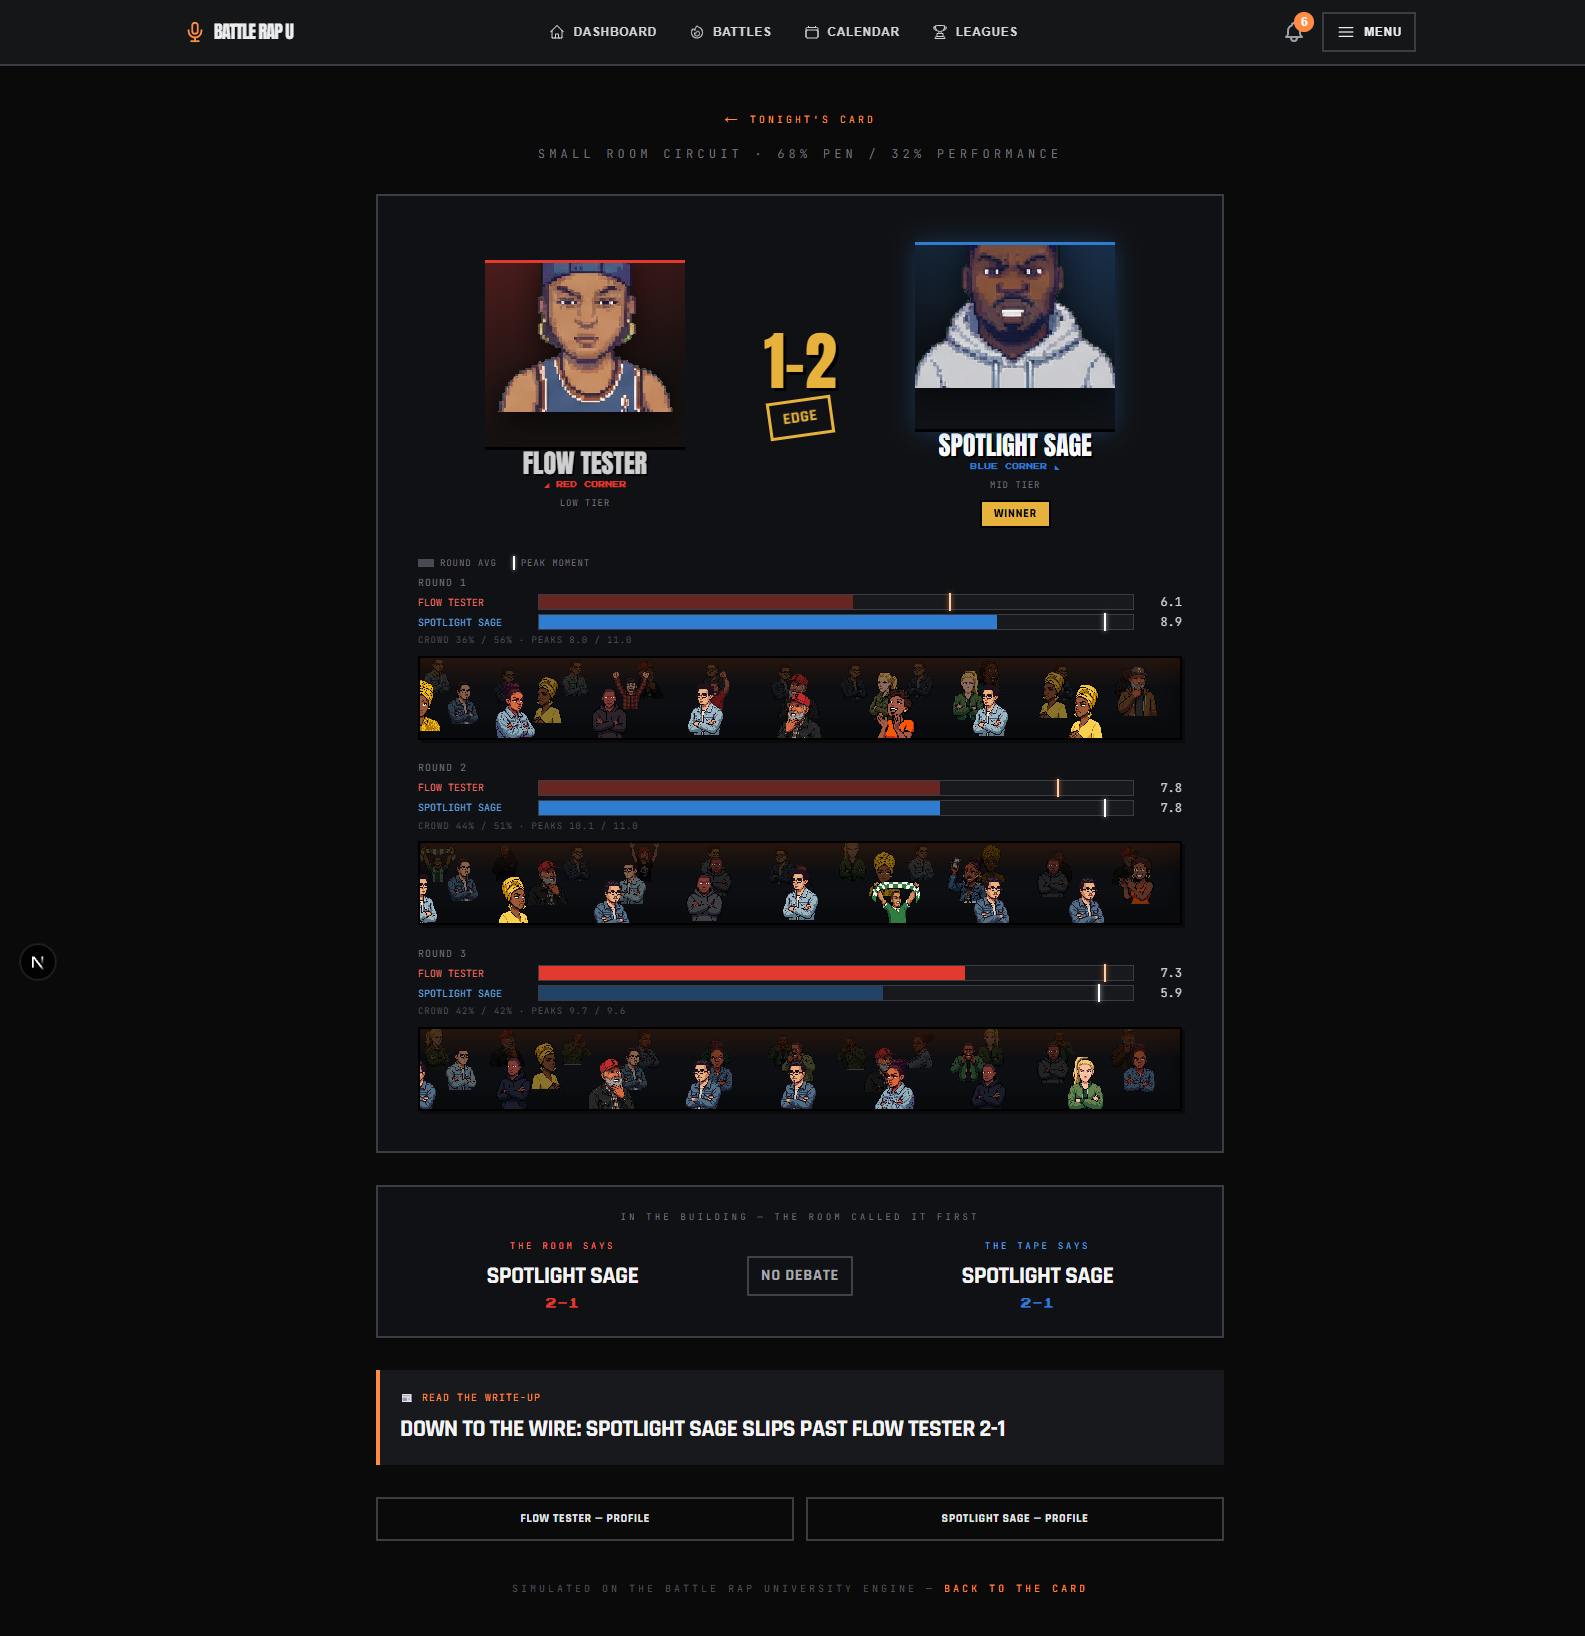
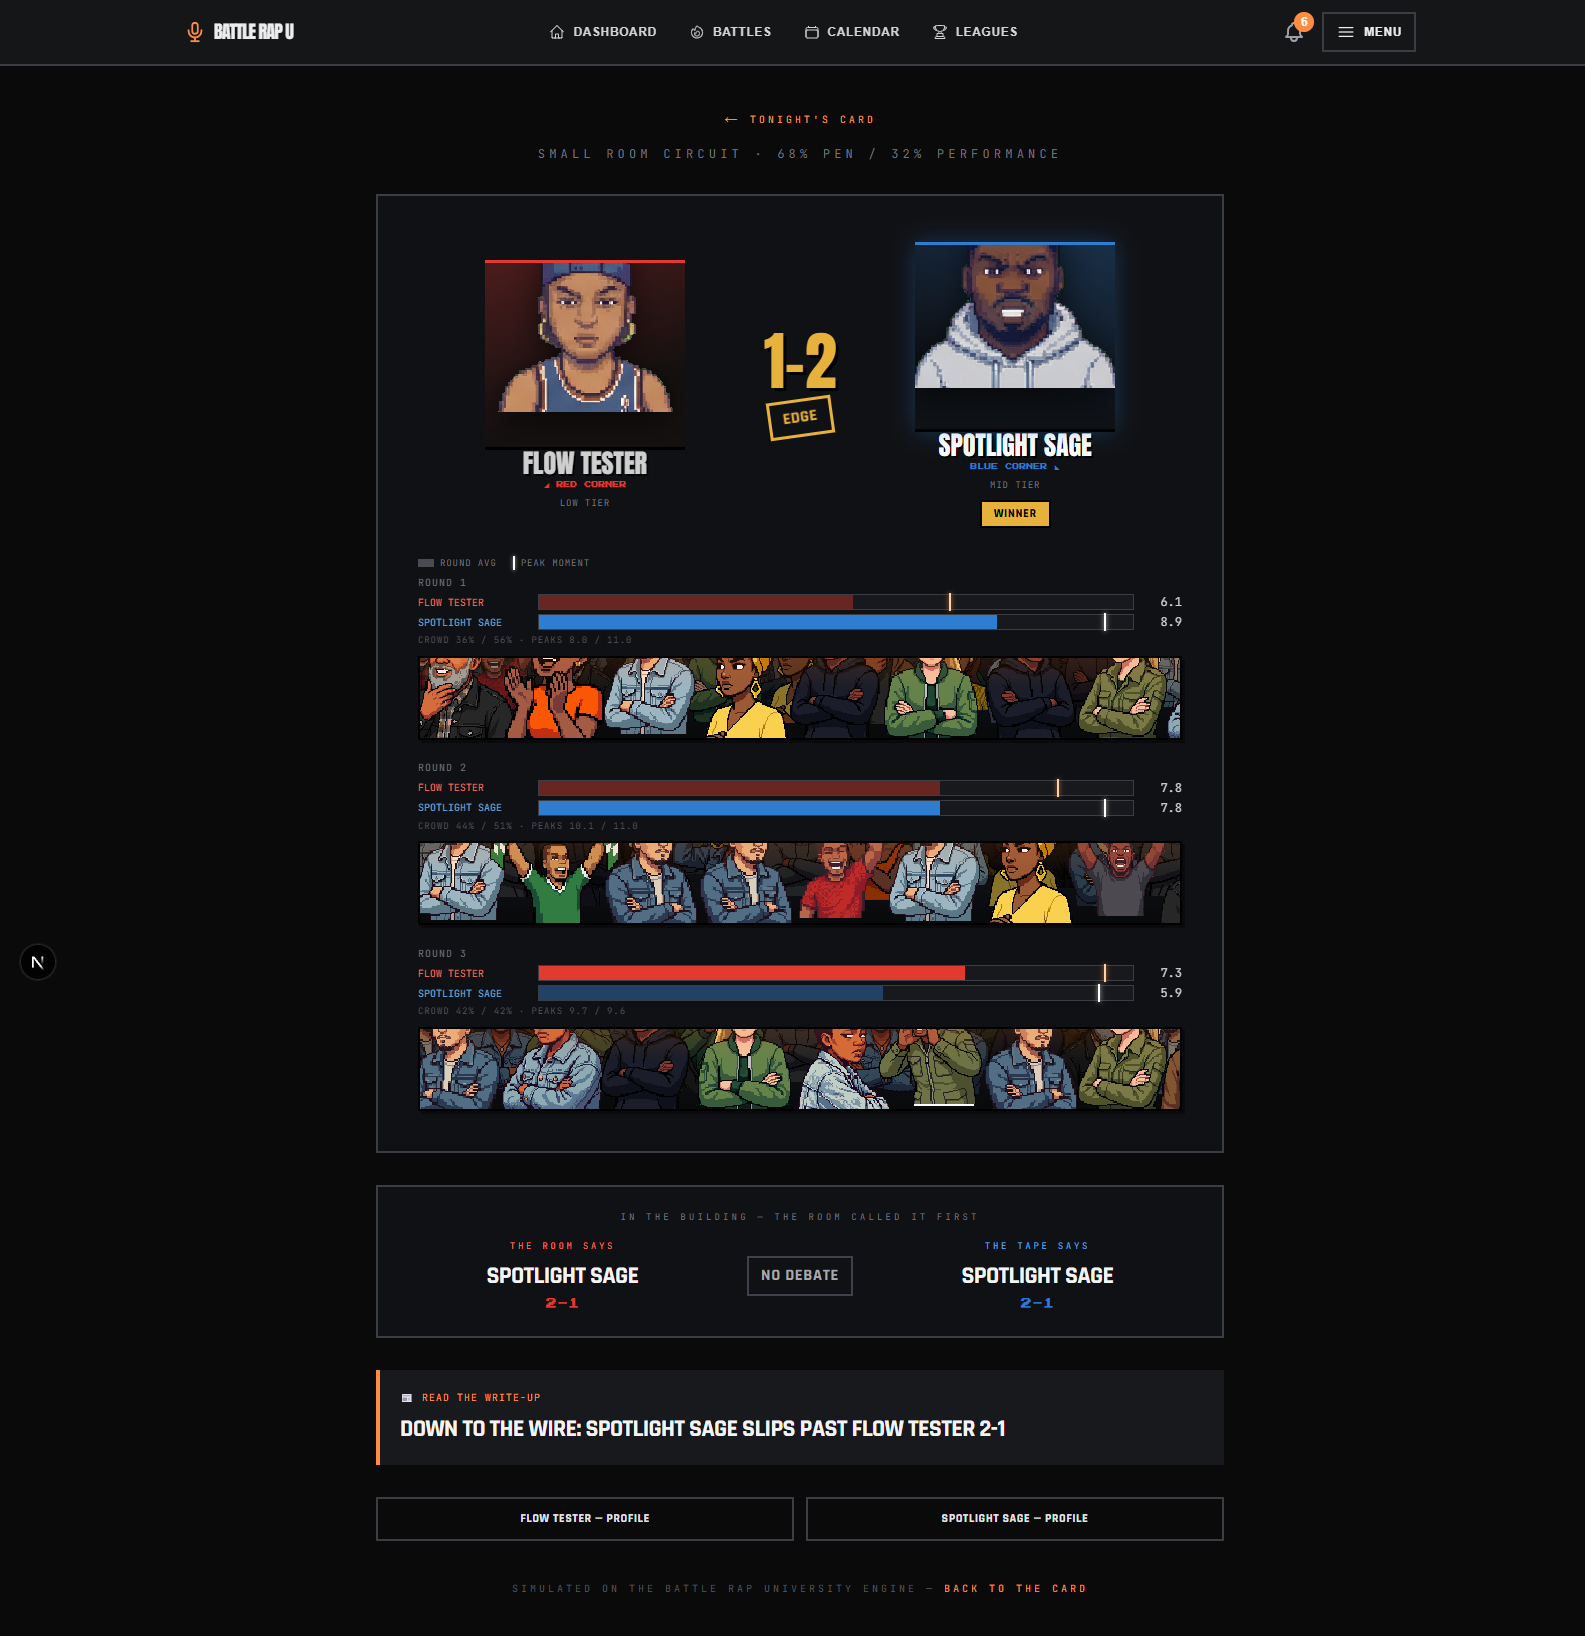
fix(crowd): pack the frame — shoulders overlap, no dead space
Owner: 'they gotta be closer together... make it look like a frame of the
crowd and they fill up the frame.' Switched THE ROOM to width-percent
sizing so overlap is guaranteed at any container width: front row waists
crop at the frame bottom, back row crops at the top, every row's bodies
are wider than their step (30-45% shoulder overlap), rows stacked tight.
Verified at watch density and mixed-venue demographics; tour shots 14-15
refreshed.

Changed region(s): [[0.2473, 0.6235, 0.742, 0.6858], [0.2473, 0.4988, 0.742, 0.5611], [0.2473, 0.4053, 0.742, 0.4676]]

diff --git a/ai-battlerap/components/battle/CrowdStrip.tsx b/ai-battlerap/components/battle/CrowdStrip.tsx
@@ -83,11 +83,14 @@ export default function CrowdStrip({
     return candidates[Math.floor(rand() * candidates.length)].src;
   };
 
-  // Three rows: background (dark, small, dense) → middle (dimmed) → front (full).
+  // Three PACKED rows — a camera frame of a crowd, not people on a shelf.
+  // Width-percent sizing guarantees shoulders OVERLAP at any container width
+  // (img width > horizontal step), and the frame crops waists at the bottom
+  // and the back row at the top, so bodies fill the frame edge to edge.
   const rows = [
-    { headH: Math.round(height * 0.5), y: 0, bright: 0.22, z: 1, count: perRow + 3, offset: 0.25 },
-    { headH: Math.round(height * 0.58), y: Math.round(height * 0.16), bright: 0.55, z: 2, count: perRow + 1, offset: 0.5 },
-    { headH: Math.round(height * 0.68), y: Math.round(height * 0.32), bright: 1, z: 3, count: perRow, offset: 0 },
+    { count: perRow + 4, width: 12.5, bottom: 44, bright: 0.22, z: 1, offset: 0.5 },
+    { count: perRow + 2, width: 14.5, bottom: 20, bright: 0.55, z: 2, offset: 0 },
+    { count: perRow, width: 17, bottom: -16, bright: 1, z: 3, offset: 0.4 },
   ];
 
   return (
@@ -106,10 +109,10 @@ export default function CrowdStrip({
       >
         {rows.map((row, ri) => {
           const step = 100 / row.count;
-          return Array.from({ length: row.count }, (_, i) => {
+          return Array.from({ length: row.count + 1 }, (_, i) => {
             const src = pick();
             const flip = rand() < 0.45;
-            const jitter = Math.round((rand() - 0.5) * 10);
+            const jitter = (rand() - 0.5) * 5; // % of height
             return (
               <img
                 key={`${ri}-${i}`}
@@ -117,10 +120,10 @@ export default function CrowdStrip({
                 alt=""
                 className="absolute"
                 style={{
-                  height: row.headH,
-                  width: 'auto',
-                  left: `calc(${(i + row.offset) * step}% - ${Math.round(row.headH * 0.44)}px)`,
-                  top: row.y + jitter,
+                  width: `${row.width}%`,
+                  height: 'auto',
+                  left: `${((i + row.offset) * step - row.width / 2).toFixed(2)}%`,
+                  bottom: `${(row.bottom + jitter).toFixed(1)}%`,
                   zIndex: row.z,
                   imageRendering: 'pixelated',
                   filter: `brightness(${row.bright})`,

diff --git a/docs/screenshots/gameplay/README.md b/docs/screenshots/gameplay/README.md
@@ -16,6 +16,7 @@
 | 11 | the-wire-scene-talks | THE WIRE: faces on the feed, heat bars, the newsroom sitting on stories |
 | 12 | power-rankings-podium | Power Rankings podium with fill-frame faces |
 | 13 | calendar-fight-nights | Calendar + FIGHT NIGHTS rail (next bouts with faces) |
-| 14 | replay-mixed-room-tape | Spectator replay: MIXED-venue crowd demographics (London room), ROOM vs TAPE panel |
+| 14 | replay-mixed-room-tape | Spectator replay: PACKED mixed-venue crowd (London room), ROOM vs TAPE panel |
+| 15 | packed-room-multimaster | The packed room at watch-mode density — shoulders overlapping, frame-filling |
 
 Refresh recipe: dev server (`ai-battlerap-dev`, port 3009) → dev quick login → Playwright `browser_take_screenshot` at 1600px, `fullPage` for long pages.
